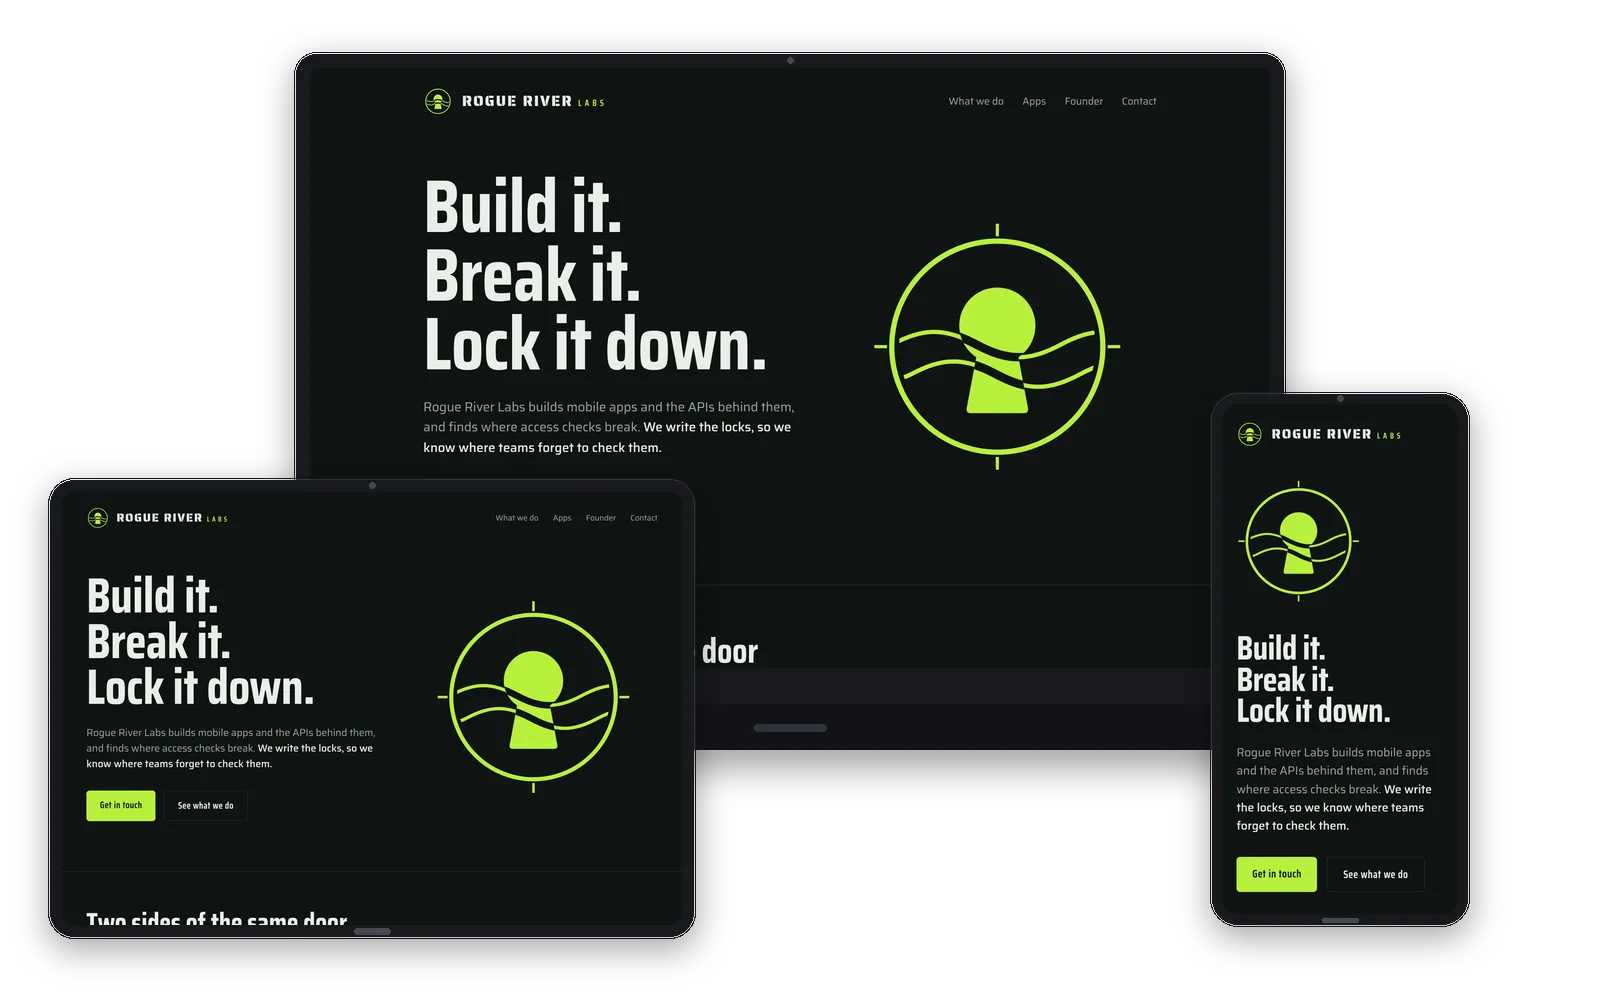
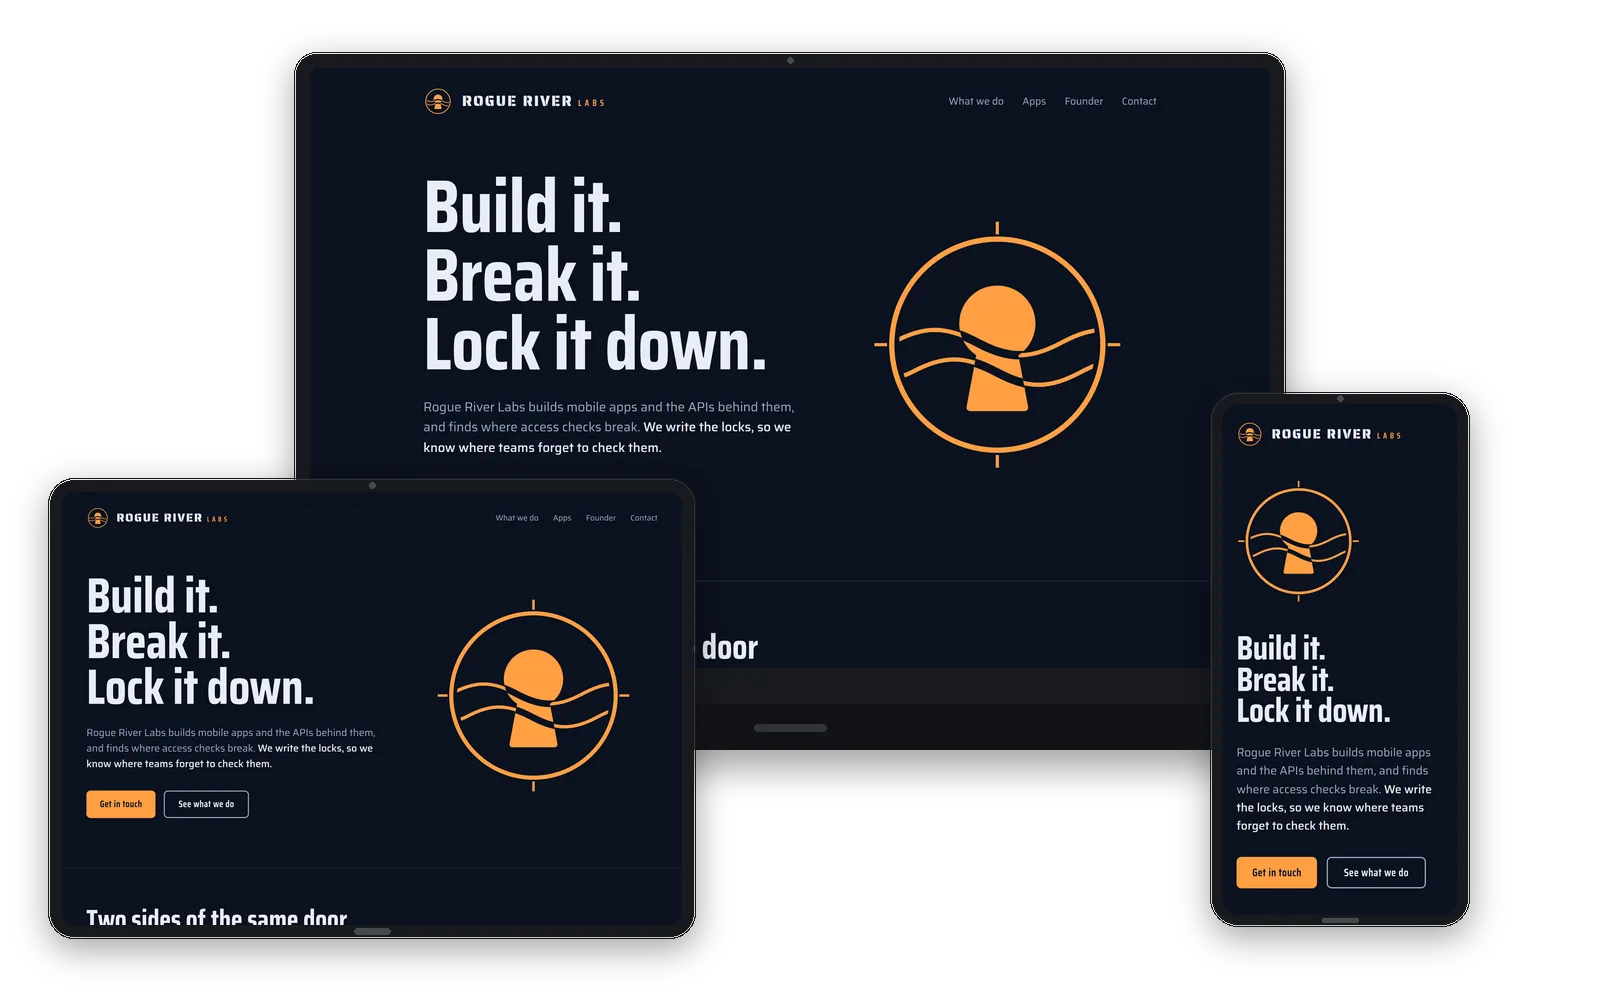
Tint the Rogue River Labs card amber and refresh its device mockup. (#35)
Capture the navy-and-amber studio hero into the existing laptop, tablet, and phone frames so the card no longer matches CallCatch's lime brand. Leave copy, CallCatch, and the shared Live site chip unchanged.

diff --git a/css/review-fixes.css b/css/review-fixes.css
@@ -584,6 +584,11 @@ body.home .trust-split .trust-val a:is(:hover, :focus, :focus-visible) {
 	font-size: 13px;
 	margin-bottom: 10px;
 }
+#rogue-river-labs .mark {
+	background: rgba(255, 159, 67, 0.12);
+	border-color: rgba(255, 159, 67, 0.4);
+	color: #FF9F43;
+}
 .case-row h3 { font-size: 18px; margin: 0; }
 .case-row p {
 	font-size: 14px;
